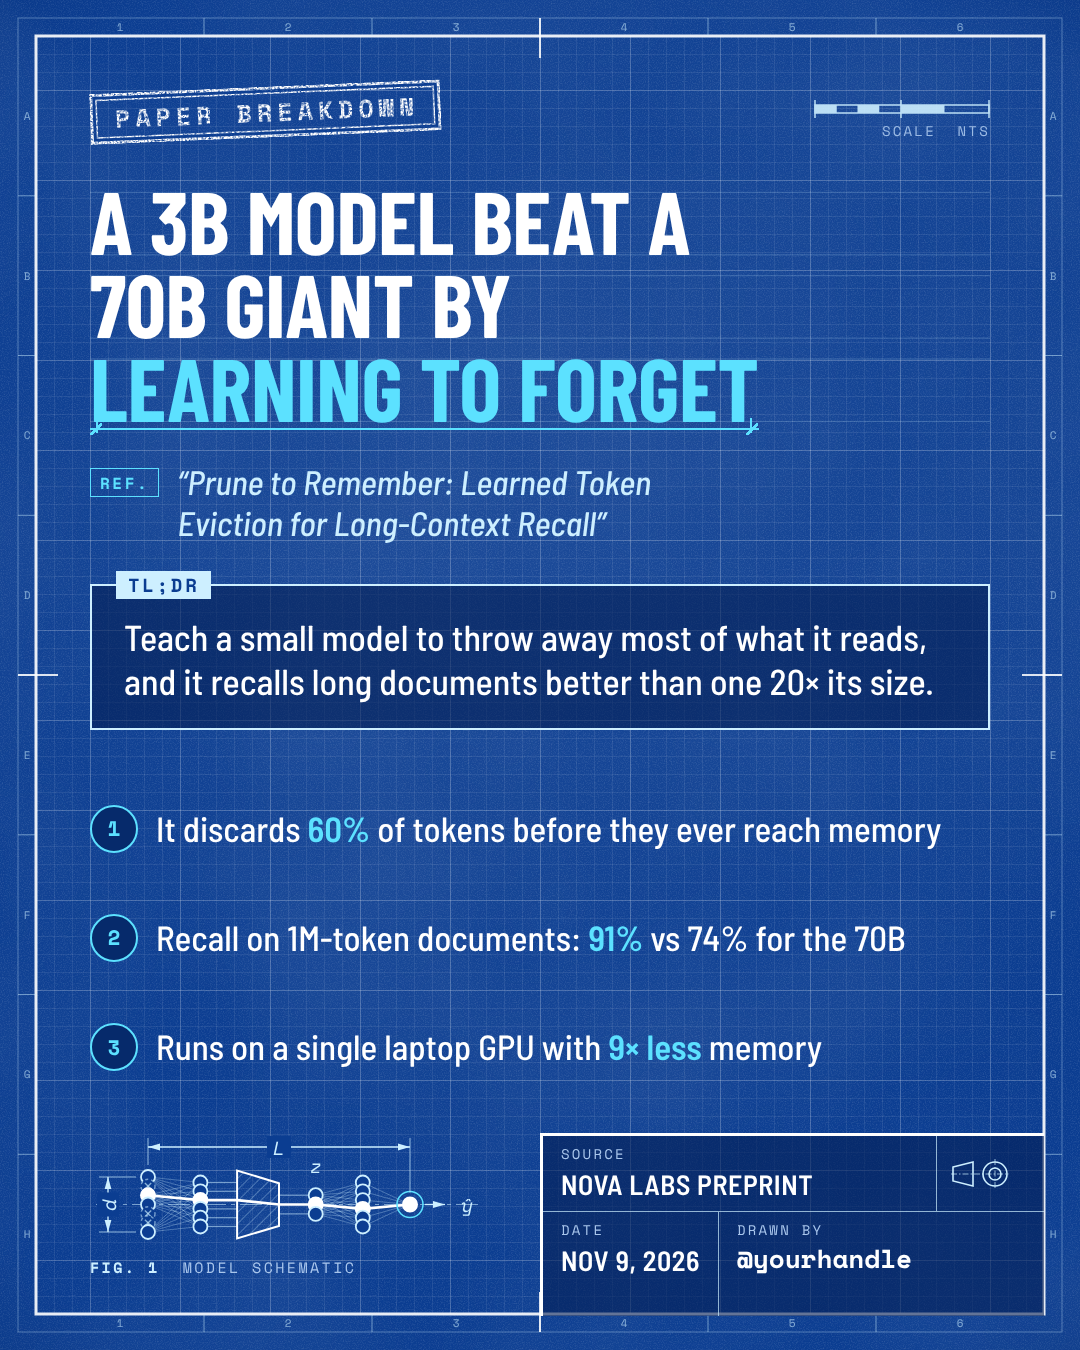
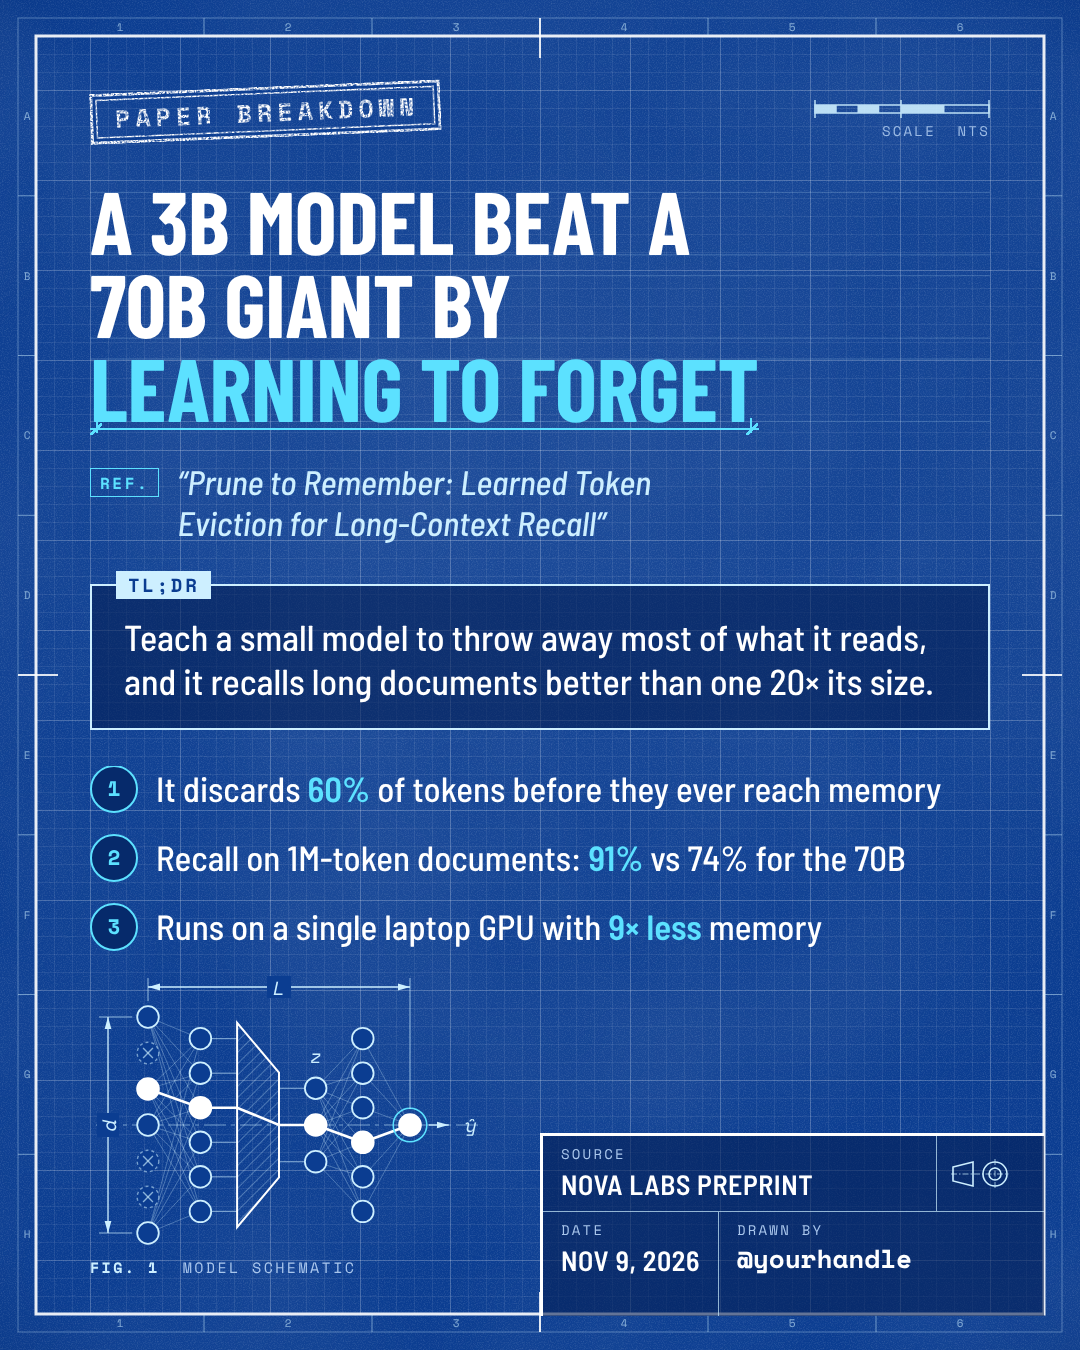
WIP: card designs in progress
Claude-Session: https://claude.ai/code/session_012JEWJmTh6XYE3zLHaoms5L

Changed region(s): [[0.0611, 0.56, 0.8861, 0.7467], [0.0611, 0.7467, 0.7639, 0.9333]]

diff --git a/ai-news-cards/designs/09-cheat-sheet/card.html b/ai-news-cards/designs/09-cheat-sheet/card.html
@@ -167,7 +167,7 @@
     }
     .num b::before {
       content: ''; position: absolute; z-index: -1;
-      left: 50%; top: 50%; width: 1.62em; height: 1.5em;
+      left: 50%; top: 50%; width: calc(1.62em * var(--blob-k, 1)); height: calc(1.5em * var(--blob-k, 1));
       transform: translate(-50%, -50%) rotate(8deg);
       background: var(--blob) center / 100% 100% no-repeat;
     }
@@ -175,6 +175,7 @@
     .txt .lead { display: block; font-weight: 800; color: var(--ink); }
     .txt .detail { display: block; }
     .points.compact .detail { display: none; }
+    .nb { white-space: nowrap; }
     .txt .star { display: inline-block; width: .9em; height: .9em; vertical-align: -.08em; margin-left: .1em; color: var(--pen); overflow: visible; }
     .txt .star path { fill: none; stroke: currentColor; stroke-linejoin: round; }
 
@@ -387,6 +388,21 @@
       return { col: col, rel: rel, baseline: baseline, scale: scale };
     }
 
+    /* Keep hyphenated words whole ("60-second", "open-source") so lines never end in a hyphen. */
+    function noBreakHyphens(root) {
+      var walker = document.createTreeWalker(root, NodeFilter.SHOW_TEXT), nodes = [], n;
+      while ((n = walker.nextNode())) if (/\w-\w/.test(n.nodeValue)) nodes.push(n);
+      nodes.forEach(function (t) {
+        var parts = t.nodeValue.split(/(\S*\w-\w\S*)/), frag = document.createDocumentFragment();
+        parts.forEach(function (p, i) {
+          if (!p) return;
+          if (i % 2) { var sp = document.createElement('span'); sp.className = 'nb'; sp.textContent = p; frag.appendChild(sp); }
+          else frag.appendChild(document.createTextNode(p));
+        });
+        t.parentNode.replaceChild(frag, t);
+      });
+    }
+
     /* "Lead — detail" points: the lead is bold ink, the detail is softer. */
     function splitPoints(card) {
       card.querySelectorAll('.points .txt').forEach(function (t) {
@@ -424,6 +440,8 @@
       card.style.setProperty('--fs', c[0] + 'px');
       card.style.setProperty('--R', R + 'px');
       card.style.setProperty('--gap', (c[2] * R) + 'px');
+      /* with no blank line between items, shrink the number dabs so they never touch */
+      card.style.setProperty('--blob-k', c[2] ? 1 : r1(Math.min(1, 0.92 * c[1] / 1.95)));
       return R;
     }
 
@@ -464,7 +482,10 @@
       function search() {
         recs = [];
         if (!h || h.hidden) { var c0 = chooseList(card); if (c0) recs.push({ maxH: 0, hs: 0, lc: c0 }); return; }
-        var steps = [620, 560, 510, 470, 430, 390, 350, 310, 280, 250, 220, 200];
+        var minH = h.__minH || 0;
+        var steps = [620, 560, 510, 470, 430, 390, 350, 310, 280, 250, 220, 200]
+          .filter(function (x) { return x > minH; });
+        if (minH && minH <= 640) steps.push(minH);
         for (var i = 0; i < steps.length; i++) {
           var hs = simFit(h, steps[i]);
           if (!hs) break;
@@ -573,7 +594,7 @@
       strip.classList.add('two');
       for (sz = 31; sz >= 26; sz--) {
         k.style.fontSize = sz + 'px';
-        if (k.scrollWidth <= k.clientWidth + 1 && k.offsetHeight <= sz * 1.12 * 2 + 2) return;
+        if (k.scrollWidth <= k.clientWidth + 1 && k.offsetHeight <= sz * 1.12 * 2 + 8) return;
       }
       console.warn('[card] kicker overflows the tape');
     }
@@ -589,6 +610,7 @@
       h.style.maxHeight = 'none';
       h.style.fontSize = min + 'px';
       if (h.scrollHeight > 430 || h.scrollWidth > h.clientWidth + 1) h.classList.add('wide');
+      h.__minH = Math.ceil(h.scrollHeight) + 1;     /* box height needed at the floor size */
       h.style.fontSize = '';
       h.style.maxHeight = '';
     }
@@ -604,6 +626,9 @@
     Card.onRender(async function (data, card) {
       var U = setup(card);
       splitPoints(card);
+      ['.headline', '.points', '.cta'].forEach(function (sel) { var el = card.querySelector(sel); if (el) noBreakHyphens(el); });
+      var kk = card.querySelector('.kicker');
+      if (kk && !kk.hidden) kk.innerHTML = kk.innerHTML.replace(/ ([·•|\/]) /g, '\u00a0$1 ');
       var lis = card.querySelectorAll('.points li');
       if (lis.length && data.note) {
         lis[lis.length - 1].querySelector('.lead').insertAdjacentHTML('beforeend', ' ' + STAR);

diff --git a/ai-news-cards/designs/20-blueprint/card.html b/ai-news-cards/designs/20-blueprint/card.html
@@ -474,7 +474,7 @@
         return out;
       }
       var R = { x: row(7, 1), h1: row(6, 0.8), z: row(3, 0.34), h2: row(6, 0.8), y: row(1, 0) };
-      var r = Math.max(7, Math.min(13, (aSpan / 6) * 0.24, span * 0.045));
+      var r = Math.max(4, Math.min(13, (aSpan / 6) * 0.3, span * 0.045));
       var pruned = { 1: 1, 4: 1, 5: 1 };
 
       var gBack = el('g', {}, svg), gMid = el('g', {}, svg), gHot = el('g', {}, svg), gTop = el('g', {}, svg);
@@ -720,7 +720,12 @@
       lower.style.flexGrow = '1';
       lower.style.flexBasis = lower.getBoundingClientRect().height / s + 'px';
       var pts = card.querySelector('.points');
-      if (pts && !pts.hidden) pts.style.justifyContent = 'space-evenly';
+      if (pts && !pts.hidden) {
+        if (card.classList.contains('wide')) {
+          // Findings keep their fitted height; the spare height goes to the schematic row.
+          lower.style.gridTemplateRows = 'auto minmax(0, 1fr)';
+        } else pts.style.justifyContent = 'space-evenly';
+      }
       var box = card.querySelector('.schem-box');
       var vertical = card.classList.contains('has-points') && !card.classList.contains('wide');
       var anchors = drawSchematic(box, vertical);

diff --git a/ai-news-cards/designs/10-carousel-hook/card.html b/ai-news-cards/designs/10-carousel-hook/card.html
@@ -142,7 +142,7 @@
       display: inline-flex; align-items: center; gap: 22px;
       max-width: 880px;
       padding: 12px 12px 12px 34px;
-      background: #fff; color: var(--ink);
+      background: var(--box); color: var(--ink);
       border-radius: 999px;
       box-shadow: 0 14px 40px rgba(60, 8, 80, .35);
       flex: none;
@@ -162,7 +162,7 @@
     .swipe .go svg { width: 34px; height: 34px; }
     .rule {
       flex: 1; height: 3px; margin-left: 22px;
-      background: #fff;
+      background: var(--fg);
     }
     .swipe[hidden] + .rule { margin-left: 0; }
 

diff --git a/ai-news-cards/designs/12-neon-grid/card.html b/ai-news-cards/designs/12-neon-grid/card.html
@@ -528,11 +528,7 @@
 
         /* Long kicker: give it the whole HUD row. */
         var kick = card.querySelector('.kicker');
-        if (!kick.hidden) {
-          kick.style.fontSize = '';
-          if (!fits(kick)) card.classList.add('hud-compact');
-          kick.style.fontSize = '';
-        }
+        if (!kick.hidden && !fits(kick)) card.classList.add('hud-compact');
 
         /* Long headline: lower the horizon and shrink the sun to give the copy more sky. */
         setStatMax();
